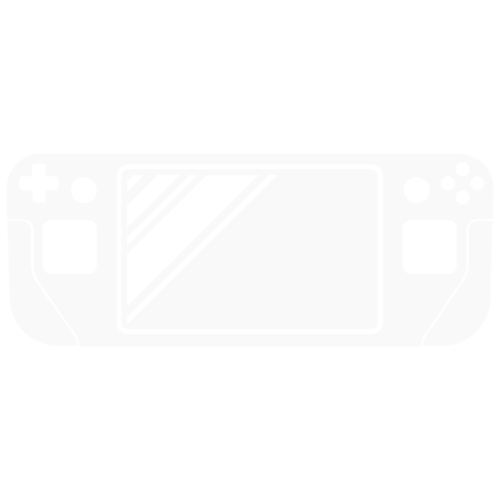
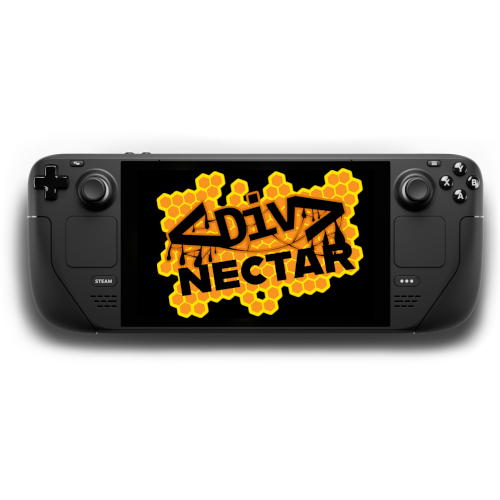
fixed post grid so everything is the same height
changed steam deck image

diff --git a/src/pages/blog.tsx b/src/pages/blog.tsx
@@ -49,7 +49,7 @@ const IndexPage = (data: PageProps<Queries.BlogPostsQuery>) => {
                         {post.frontmatter?.title}
                       </a>
                     </h3>
-                    <p className="mt-5 line-clamp-3 text-sm leading-6 text-textPrimary">{post.excerpt}</p>
+                    <p className="mt-5 min-h-[120px] line-clamp-3 text-sm leading-6 text-textPrimary">{post.excerpt}</p>
                   </div>
                   <div className="relative mt-8 flex items-center gap-x-4">
                     <img src={'/sewdohe-avatar.png'} alt="" className="h-10 w-10 rounded-full" />
